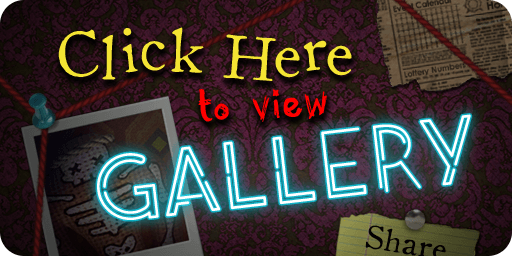
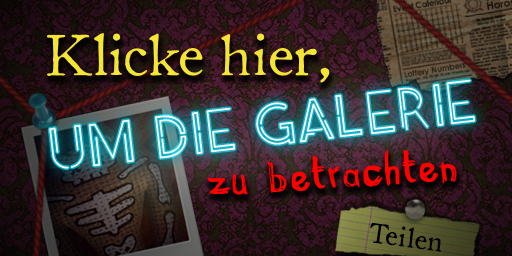
Trivia Murder Party 2 (PP6)

diff --git a/main/pp6/triviadeath2/script.js b/main/pp6/triviadeath2/script.js
@@ -21174,7 +21174,7 @@ const g1 = mt.View.extend({
             if (this.model.get("roundType") !== "FinalRound") {
                 const n = this.model.get("choices");
                 if (!n) return e;
-                e = `<div class="chosenText">You have chosen<br>${n.find(o=>o.key===t[0]).html}</div>`
+                e = `<div class="chosenText">Du hast gewählt<br>${n.find(o=>o.key===t[0]).html}</div>`
             }
             return {
                 html: e
@@ -21419,7 +21419,7 @@ const g1 = mt.View.extend({
     }),
     T1 = `<div>\r
     <canvas id="phone" class="canvas phone" width=825 height=972></canvas>\r
-    <button id="reset" class="button reset">Reset</button>\r
+    <button id="reset" class="button reset">Zurücksetzen</button>\r
     <div class="visuallyhidden">\r
     	<img id="fingerStop" src="main/pp6/triviadeath2/triviadeath2/telephone_0_fingerStop.png"/>\r
     	<img id="fingerWheel" src="main/pp6/triviadeath2/triviadeath2/telephone_1_fingerWheel.png"/>\r
@@ -21558,7 +21558,7 @@ const g1 = mt.View.extend({
             const t = this.sprites.find(i => i.type === "dialed"),
                 e = this.model.get("dialed");
             let n = this.model.get("status") || "";
-            n.toLowerCase() === "busy" && (n = "NUMBER BUSY"), n.toLowerCase() === "connected" && (n = "CONNECTED"), n.toLowerCase() === "wrongnumber" && (n = "WRONG NUMBER"), t && (t.val = e, t.status = n)
+            n.toLowerCase() === "busy" && (n = "BESETZT"), n.toLowerCase() === "connected" && (n = "VERBUNDEN"), n.toLowerCase() === "wrongnumber" && (n = "FALSCH VERBUNDEN"), t && (t.val = e, t.status = n)
         },
         onRender() {
             this.stickit()
